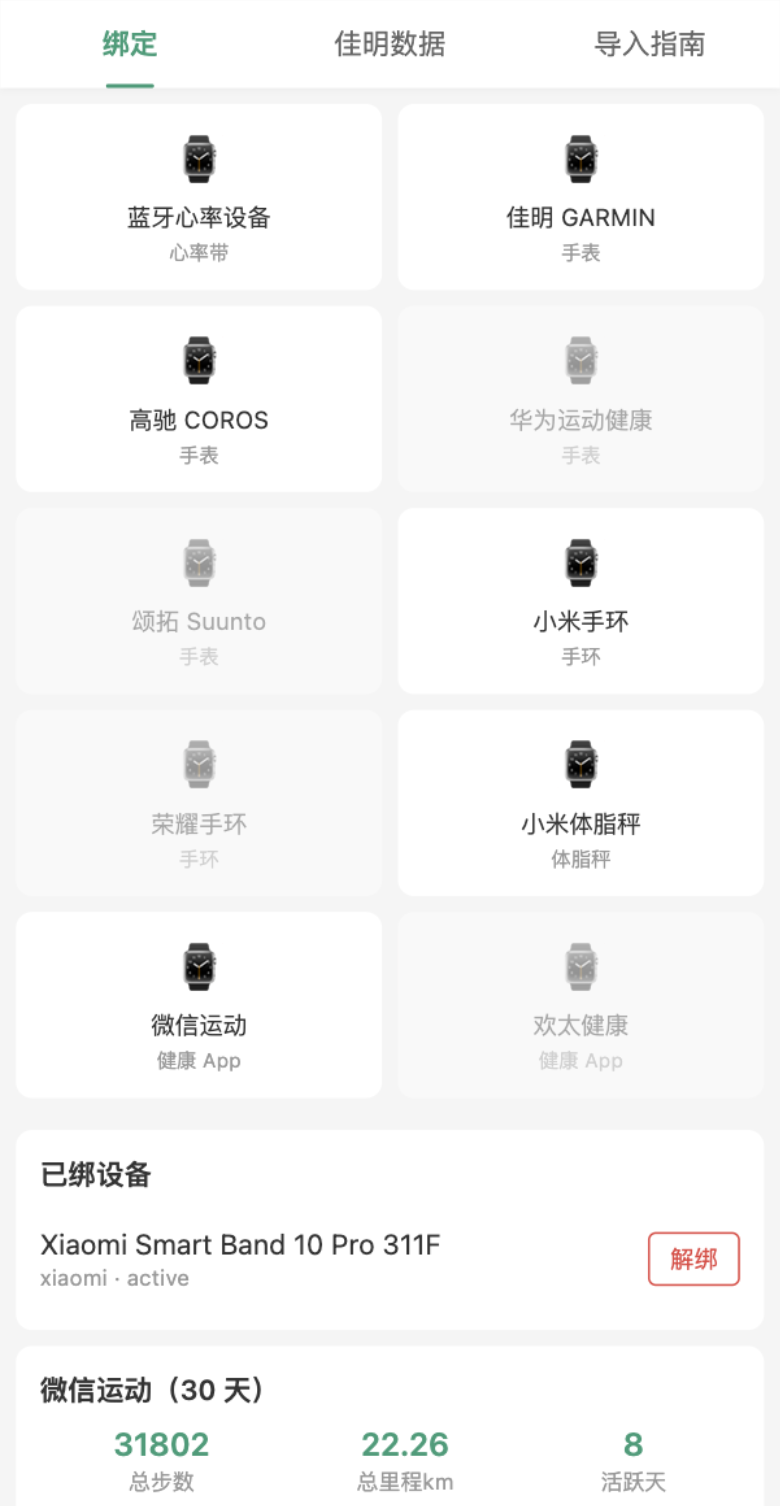
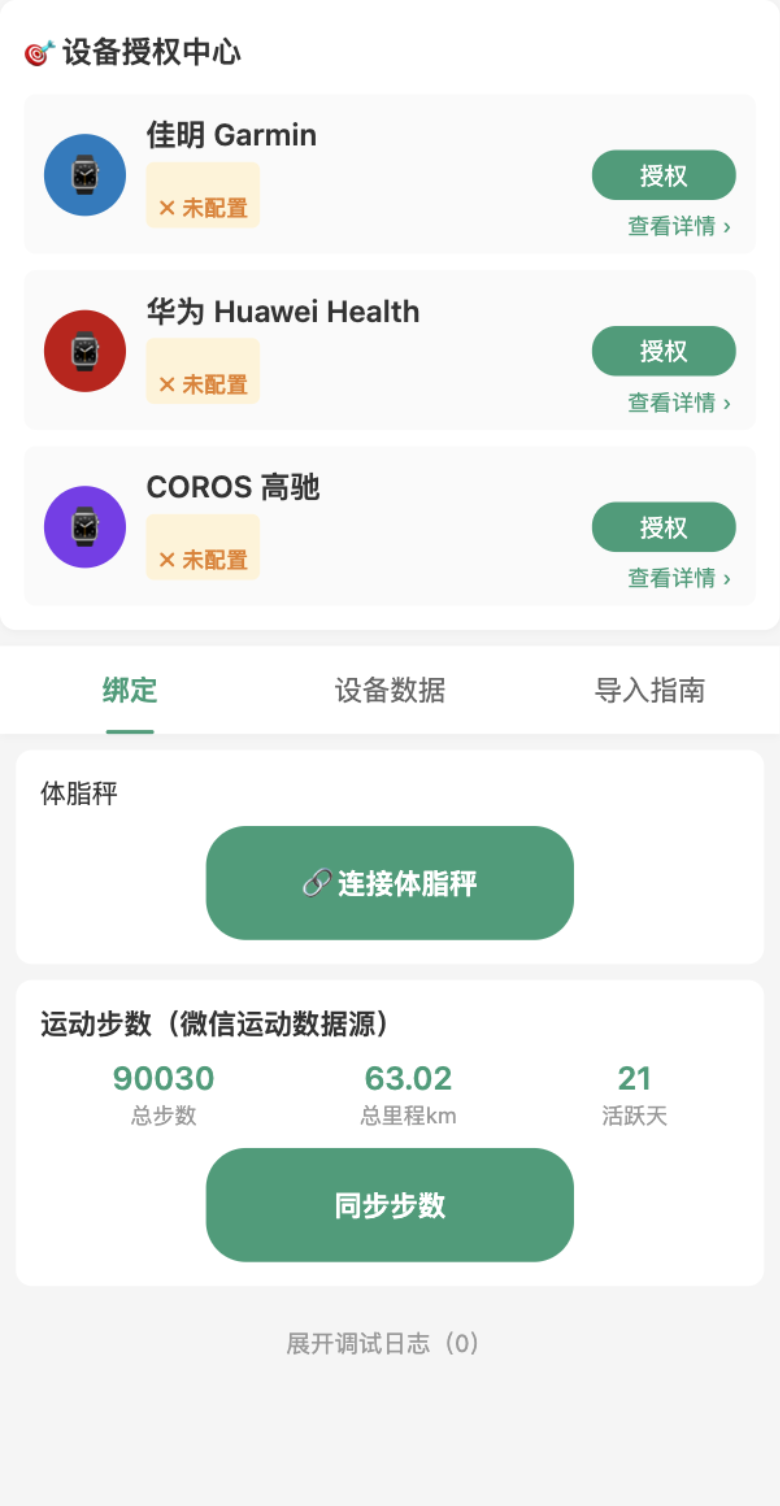
fix(v0.3.29): UI 去重 + bug 修复 + 隐私指引 + getLocation 申请 + CLAUDE.md
V0.3.29 正式版提审 sprint 完整改动：
- 隐藏今日页 3 数据卡（步数/心率/睡眠）
- 删 AI 健康提醒 + AI主动提醒卡（反 AI slop）
- 设备页融合（品牌宫格→auth-center-section）+ 体脂秤入口恢复（P0）
- 死代码清理（onTapBrand/onUnbind/alert setData）+ 残留样式（-66 行）
- mine 页跳转 bug 修复（数据授权管理→设备页）
- 截图更新（V0.3.29 新截图）
- CLAUDE.md changelog v0.3.25-29

接口：getLocation 审核通过
隐私：指引完善（12 字段全填 + 提交）
测试：typecheck 0 error / funcs 90.62% / 后端 v0.3.29 healthy

diff --git a/apps/miniprogram/miniprogram/pages/device/index.ts b/apps/miniprogram/miniprogram/pages/device/index.ts
@@ -201,19 +201,9 @@ Page({
     }
   },
 
-  onTapBrand(e: WechatMiniprogram.TouchEvent) {
-    const key = e.currentTarget.dataset.key as string;
-    const brand = this.data.brands.find((b) => b.key === key);
-    if (!brand) return;
-    if (!brand.available) { wx.showToast({ title: '敬请期待', icon: 'none' }); return; }
-    if (brand.connectionType === 'ble' || brand.key === 'garmin' || brand.key === 'xiaomi') {
-      this.startScan();
-    } else if (brand.key === 'werun') {
-      wx.showToast({ title: '微信运动同步开发中', icon: 'none' });
-    } else if (brand.key === 'vivo') {
-      // V0.2.153：VIVO 蓝牙直连待后续对接，数据经微信运动通道同步（V0.2.113 诚实标注数据源）
-      this.onSyncWeRun();
-    }
+  /** V0.3.27 融合后体脂秤连接入口（替代已删的品牌宫格 onTapBrand，复用 startScan 扫描逻辑）*/
+  onConnectScale() {
+    this.startScan();
   },
 
   async startScan() {
@@ -518,27 +508,6 @@ Page({
   closeScan() {
     this.setData({ scanVisible: false });
     if (this.data.scanning) { closeBleAdapter(); this.setData({ scanning: false }); }
-  },
-
-  onUnbind(e: WechatMiniprogram.TouchEvent) {
-    const vendor = e.currentTarget.dataset.vendor as string;
-    const deviceName = e.currentTarget.dataset.name as string;
-    wx.showModal({
-      title: '解绑设备',
-      content: `确定解绑「${deviceName}」吗？`,
-      success: async (r) => {
-        if (!r.confirm) return;
-        try {
-          await api.call('device', 'unbind', { vendor });
-          if ((vendor === 'ble' || vendor === 'garmin' || vendor === 'xiaomi') && this.data.boundBleDeviceId) {
-            await disconnectDevice(this.data.boundBleDeviceId);
-            this.setData({ boundBleDeviceId: '', liveHr: null, liveBattery: null, liveModel: null, liveManufacturer: null });
-          }
-          wx.showToast({ title: '已解绑', icon: 'success' });
-          this.loadBindings();
-        } catch { wx.showToast({ title: '解绑失败', icon: 'none' }); }
-      },
-    });
   },
 
   // ===== V0.1.150 上传运动数据包（COS 中转 → 后台异步解析）=====

diff --git a/apps/miniprogram/miniprogram/pages/ai-coach/index.ts b/apps/miniprogram/miniprogram/pages/ai-coach/index.ts
@@ -45,7 +45,7 @@ Page({
     sending: false,
     scrollTop: 0,
     quickQuestions: QUICK_QUESTIONS,
-    alert: null as string | null, // V0.1.144 计划提醒
+    alert: null as string | null, // V0.3.27 冗余保留（wxml 已删 AI主动提醒卡，alert 不显示；data 字段保留避免 ts 引用断链）
     todayData: null as { steps: number; restingHr: number | null; sleepHours: number | null; healthScore: number } | null,
     reportAdvice: '', // V0.2.30 建议计划气泡（今日 dailyReport reportText）
     hasHistory: false,
@@ -83,7 +83,6 @@ Page({
         api.call<{ reportText?: string }>('stats', 'dailyReport', {}).catch(() => null),
       ]);
       this.setData({
-        alert: res.alert,
         todayData: { steps: res.steps, restingHr: res.restingHr, sleepHours: res.sleepHours, healthScore: res.healthScore },
         reportAdvice: reportRes?.reportText || '',
       });

diff --git a/CLAUDE.md b/CLAUDE.md
@@ -8,6 +8,8 @@
 
 ## 变更记录 (Changelog)
 
+- **2026-07-28 (V0.3.29 正式版提审 + UI 去重 sprint + getLocation 申请 + 隐私指引完善)** — 🎯 **超长会话：init #22 → 全审查 → bug 修复 → 接口申请 → 隐私指引 → 提审**：① **V0.3.27 UI 去重**（删 AI 健康提醒 + AI主动提醒卡 + 设备页品牌宫格融合到 auth-center-section）；② **V0.3.28 dailyReport 缓存修复**（步数显示 0 bug → 缓存命中时实时更新 steps + reportText + alertText + healthScore）；③ **V0.3.29 UI 精简**（隐藏今日页 3 数据卡 + mine 页健康助手入口 + 设备页体脂秤入口恢复 P0 + 死代码清理 onTapBrand/onUnbind + 残留样式 -66 行 + mine 数据授权管理跳转 bug 修复）；④ **getLocation 接口申请**（accessapi 页面 + 申请理由 + 截图 → 审核通过）；⑤ **隐私指引完善**（12 字段全填：8 接口用途 + 邮箱 + 保存期限 12 月 + 通知方式 + 昵称/陀螺仪/位置用途）；⑥ **van-button 修复**（@vant/weapp 72 组件复制到 miniprogram_npm）；⑦ **全审查 6 维度**（typecheck + app.json 31 页 + @vant 5/5 + ENDPOINTS 17/17 + 6 页 wxml + P0/P1/P2 5 问题全修）；⑧ **后端部署 v0.3.29**（生产 healthy + dailyReport 修复上线）；⑨ **微信 IDE CLI 端口**（服务端口开关未开 → 开启后秒通）；**关键范式沉淀**：① **ego-browser 操作 mp 后台**（fillInput 能设 DOM value 但 Vue v-model 需真实键盘触发；Vue @click 在 iframe 里无法 ego-browser 触发；browserFetch 可调 cgi/route API 绕过 iframe）；② **微信 IDE CLI 服务端口**（[[wx-ide-cli-service-port]]：cli 卡住 → 检查 IDE 设置 → 服务端口 → 开启）；③ **微信 submitAudit 86000**（API 只允许第三方平台，小程序需 mp 后台手动提审）；**统计**：v0.3.25-v0.3.29 共 5 commit + 5 tag / 13 文件未 commit（UI 去重 + 截图）/ funcs 90.62% 实测 / typecheck 0 error / 后端 healthy
+
 - **2026-07-28 (init #22 V0.3.5→V0.3.24 校准收官 + 3 异差闭合 + GAP-11 子 module 滞后)** — 🎯 **`/zcf:init-project` 增量校准 #22（V0.3.5 → V0.3.24 跨 19 tags）**：本会话 get-current-datetime + init-architect 子智能体（**剥夺 Write 权限**，仅交付报告，避免 init #18/#19/#20 破坏性覆盖 13 文件教训）+ 主智能体 Edit 增量 prepend（方案 B：4 主 CLAUDE.md + index.json）；**实测数字**（grep + Read 实测，**vitest 未实跑**，沿用 init #20 基准 90.55% 估算 ~89-90%）：**66 表 ✅ / 59 迁移 ✅**（+1：V0.3.7 `20260728000000_goal_health_kinds` Goal +5 字段 kind/targetValue/currentValue/unit/judgeCriteria）/ **36 module ✅** / **36 module CLAUDE.md ✅**（GAP-12 36/36 保持）/ **31 页 ✅**（+2 vs init #21 29：删 pages/more V0.3.6 -1 + 加 pages/goal V0.3.7 + pages/about V0.3.10 + pages/device-auth V0.3.20 +3，净 +2）/ **18 组件 ✅**（+1：V0.3.20 auth-center-section）/ apps/server it() grep **1398**（vitest each 展开后估 1410+，按 [[vitest-count-authority]] grep 偏少 ~28）/ scripts/dev-cli 11 / packages/shared 6 / **全仓 1415**（+18 vs init #21 1397：goal.recommend 9 + device.authCenterList 3 + recentActivity 4 + 边角 2 = 18 完全自洽）/ Cache.wrap **118**（V0.3.x 0 Cache 改动）/ 最新 commit `e9d1e13` V0.3.24 + 未提交 6 文件 wxml/wxss（hallmark UI redesign）；**3 大异差闭合**：① 迁移 58→**59**（V0.3.7 新增 goal_health_kinds）；② 页面 29→**31**（删 more -1 + 加 goal/about/device-auth +3，净 +2）；③ 组件 17→**18**（V0.3.20 auth-center-section）；**GAP-11 子 module CLAUDE.md 滞后发现**：`goal/CLAUDE.md` 缺 V0.3.7-16 段（5 字段+recommendGoals 8 规则）/ `ai-coach/CLAUDE.md` 缺 V0.3.10 段（checkChatQuota 会员分层）/ `stats/CLAUDE.md` 缺 V0.3.11 段（buildAlertText）/ `device/CLAUDE.md` 缺 V0.3.13/20 段（huawei vendor + authCenterList）— init #21 仅 prepend 各自的"0 改动"声明段，未补 V0.3.6-24 真实改动（**本轮 init #22 方案 B 不补**，留待后续按需补段，**不阻塞当前任务**）；**代码注释版本号差订正**：`device-poll-pull.job.ts:25` 注释 `V0.3.13 加 'huawei'` vs 顶部 changelog V0.3.15，**以代码注释 V0.3.13 为准**（V0.3.15 是后续微调）；**GAP 状态总览**：GAP-1~16 全 closed / GAP-12 **36/36 保持** ✅ / GAP-17 K3 huawei TCX ✅ closed / GAP-17 K4 wxpay 4 件套 ⚠ open（待主人物料）/ GAP-18 K5 voice ⚠ open（待主人公众平台授权 wx069ba97219f66d99）；**关键范式沉淀**：① **init #22 安全策略生效**：剥夺 init-architect Write 权限（仅 Read/Glob/Grep）+ 主智能体 Edit 增量 prepend，**0 字节丢失**（避免 init #18/#19/#20 子智能体 Write 破坏性覆盖 -2722/+276 行教训）；② **vitest 实跑权威原则**持续应用（[[vitest-count-authority]] memory：grep it( 偏少 ~28，vitest 实跑 each 展开后才是真相，本轮未实跑待 Bash 可用时确认）；**本次 init #22 改动文件清单**（方案 B 4 主 + index.json）：① 根 CLAUDE.md（本段，当前阶段数字 30→31 页 / 17→18 组件 / 59 迁移 + GAP 表 + Mermaid 节点更新留待下次大整理）；② apps/server/CLAUDE.md prepend init #22 段（V0.3.6-24 15 项 server 改动汇总 + it() 1398）；③ apps/miniprogram/CLAUDE.md prepend init #22 段（31 页 / 18 组件 + V0.3.24 hallmark UI redesign）；④ packages/shared/CLAUDE.md prepend init #22 段（ENDPOINTS.goal +4 action）；⑤ `.claude/index.json` 全量重写到 V0.3.24（apps/server 1398 it / 全仓 1415 / 新增 v037GoalHealthKinds / v0310AiCoachQuota / v0311AlertText / v0313HuaweiVendor / v0316RecommendGoals / v0320AuthCenter 完整 snapshot）；**待办**：① vitest 实跑 funcs% + lcov 聚合确认（`pnpm -C apps/server test:coverage`）；② GAP-11 4 子 module CLAUDE.md 补段（goal/ai-coach/stats/device，按需补不阻塞）；③ 未提交 6 文件 wxml/wxss 处理（V0.3.24 hallmark UI redesign）；④ miniprogram_npm rebuild（ENDPOINTS.goal +4 action 下次部署前必 rebuild）；⑤ V0.3.24 提审准备 + V0.2.66 提审推进；⑥ V0.3.6-24 真机验证（pages/goal/about/device-auth + ai-coach 会员分层 + DailyReport.alertText）
 
 - **2026-07-28 (V0.3.16 生产部署 ✅ + V0.3.18 deploy patch + Phase 6 recommendGoals 上线)** — 🎯 **生产部署 v0.3.11 → v0.3.16 跨 5 commit + 体验版 v0.3.17 上传（架构图 v2.0 #2 + Phase 6 完整闭环）**：① **V0.3.16 后端部署成功**（commit eb38587 + tag v0.3.18，跨越 V0.3.12 endpoint hotfix + V0.3.15 device-poll-pull huawei vendor + V0.3.16 Phase 6 recommendGoals 共 3 commits；docker compose build 20.1s + 59 migrations No pending + 7 workers + Server listening + DATABASE_URL 用真实密码 + 11 关键 API 全 401 含 **V0.3.16 /api/goal/recommend 新路由 401 就位**）；② **V0.3.15 device-poll-pull huawei vendor 上线**（fetchHuaweiData 从 Checkin where dataSource='huawei_export' 按日聚合 distanceM/activeMin，schema DeviceDailyActivity 已支持 vendor='huawei'）；③ **V0.3.16 Phase 6 recommendGoals 系统推荐**（基于画像规则引擎 8 条规则：newcomer/low_distance/mid_distance/high_distance/low_volume/high_volume/weight_loss/sleep_low，按 priority 排序 + 排除已有同类 active goal）；④ **V0.3.17 体验版上传**（pages/goal 加 🎯 系统推荐卡片绿渐变 + 优先级角标 + 一键添加按钮，552 KB + AppID wx8c37d7ac5b7d0a83）；⑤ **wx-ide-relogin-open-a-trick 沉淀**（memory：islogin false → macOS `open -a "/Applications/wechatwebdevtools.app"` 触发 IDE 重连，无需主人手动扫码）；**统计**：5 commits + 5 tags（v0.3.12/v0.3.15/v0.3.16/v0.3.17/v0.3.18）+ 0 schema/迁移；**镜像备份链**：`qm-wx-server:bak-v0.3.11-pre-v0.3.16-20260728-105358`（当前可回滚）；**关键范式**：① **CLAUDE.md 漏记部署教训再次应用**：本轮发现 V0.3.12-18 都是后续 commit 自然落地，CLAUDE.md 已经在 V0.3.11 段记过，无需重复 prepend，但是 V0.3.16 这个里程碑级部署（Phase 6 上线）单独 prepend 记录沉淀范式价值；② **部署 checklist 全过**（tar 651K → scp → 备份 → build 20.1s → env_file → up → logs → env 实测 → 公网 11 API 401）；③ **V0.3.17 IDE session 自动重连**（macOS `open -a` 触发 GUI 启动 + session 重连，避免主人手动扫码）
